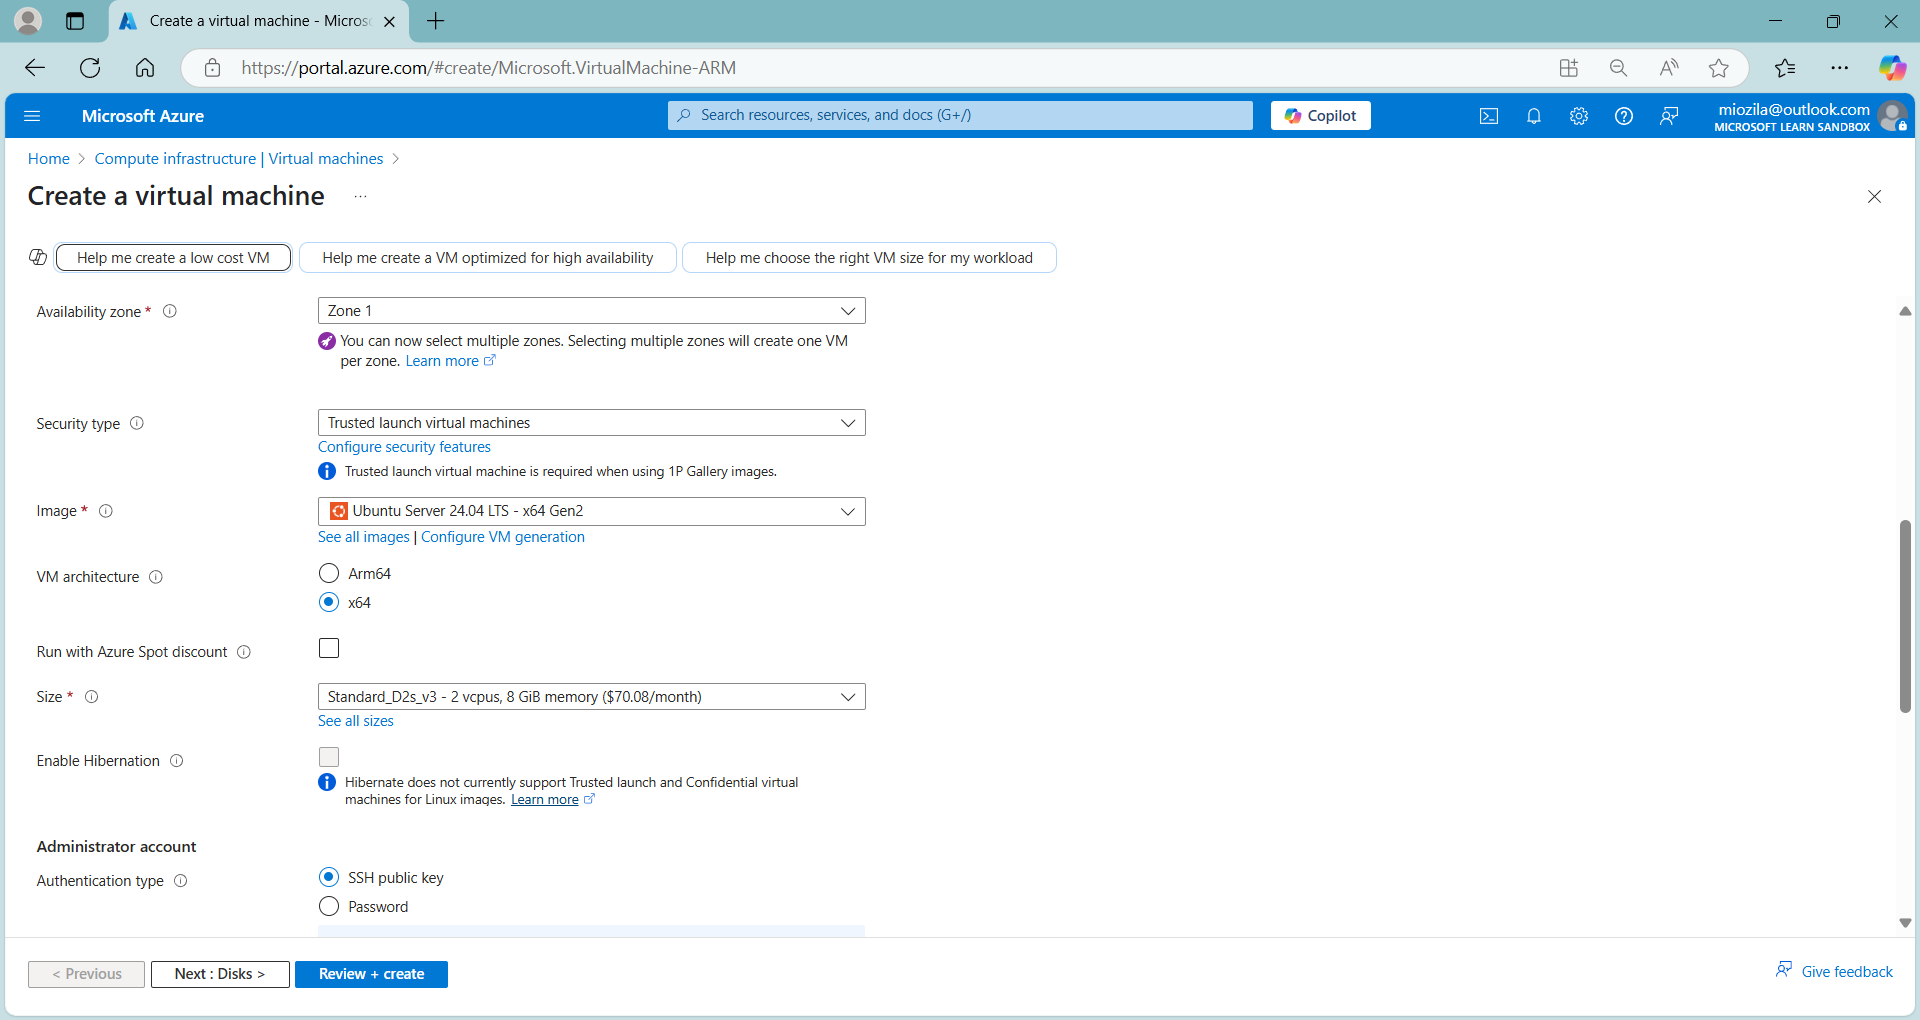
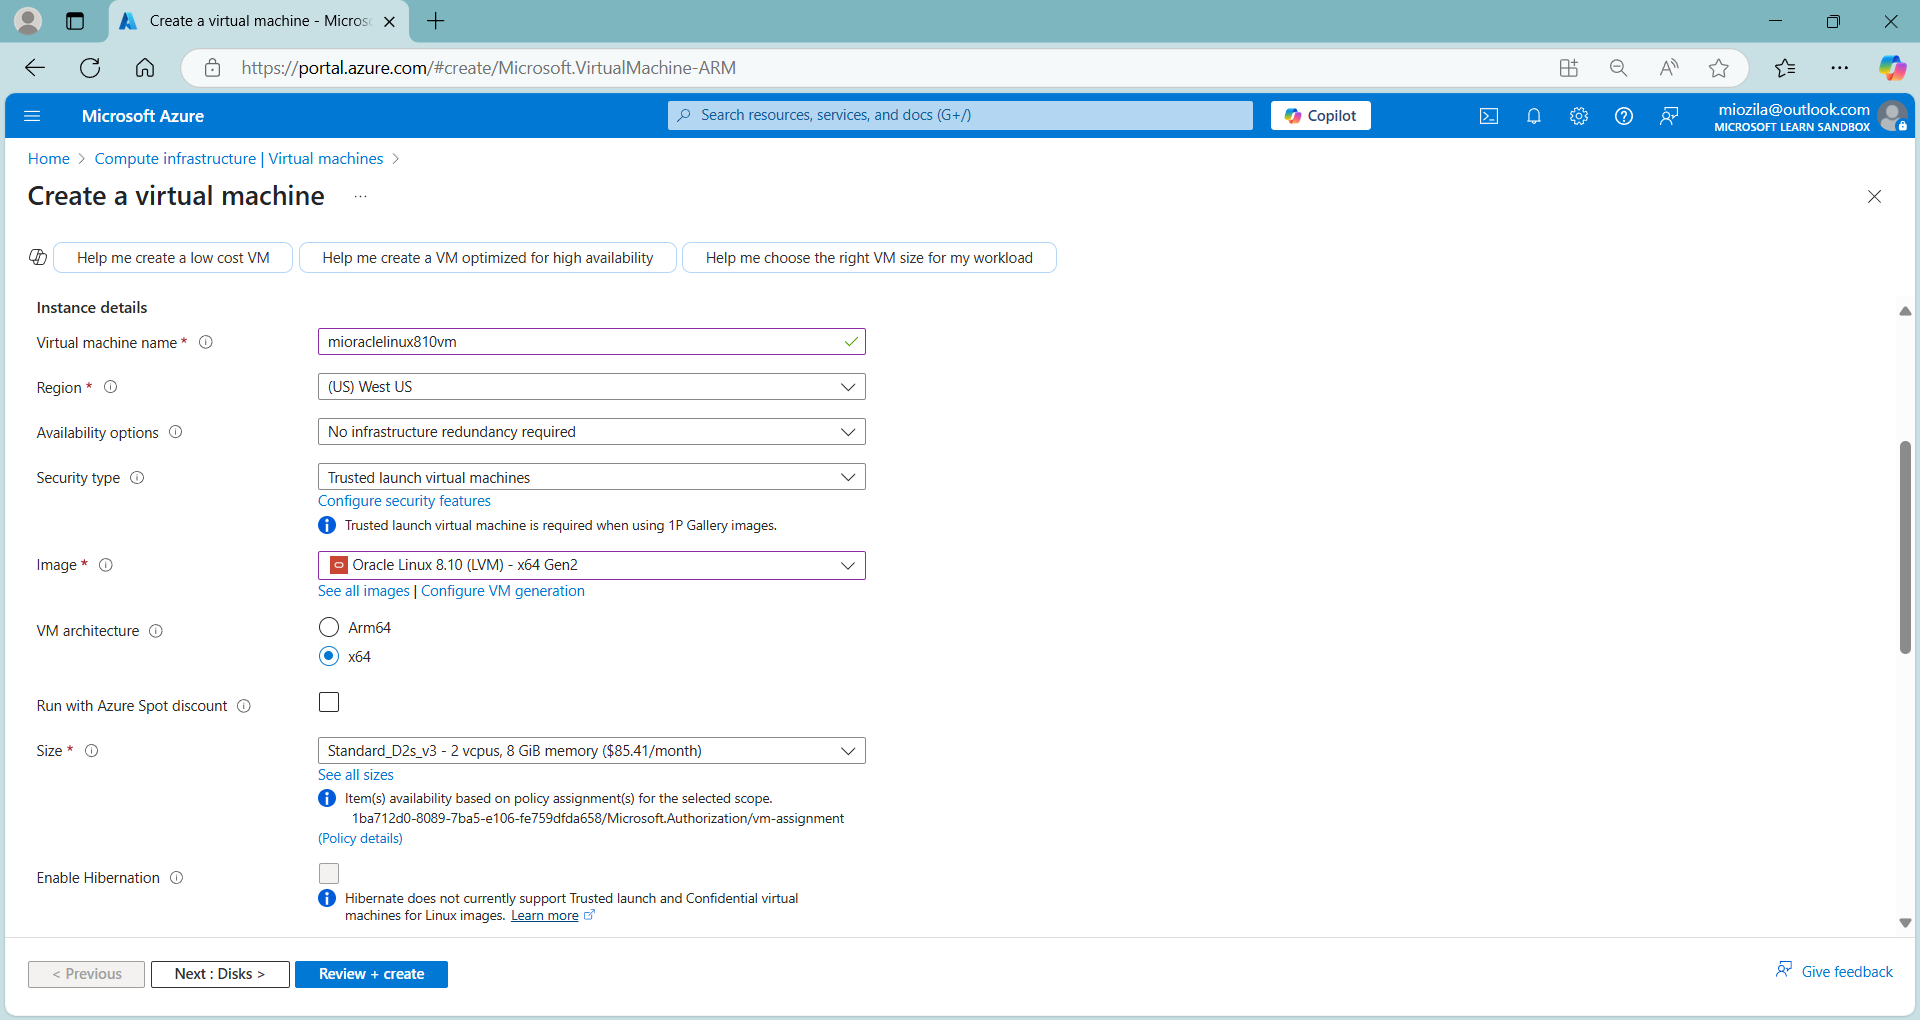
update changes md & png

diff --git a/README.md b/README.md
@@ -1,2 +1,19 @@
 # oraclecomput
 oraclecomput : #oracle_linux #compute #virtual_machine
+
+## Objective
+Create a linux virtual machine in Azure
+
+## Oracle Linux 8.10 (LVM) Virtual Machine Compute
+
+![Screenshot_oraclecomput001](./oraclecomput001.png)
+
+![Screenshot_oraclecomput002](./oraclecomput002.png)
+
+![Screenshot_oraclecomput003](./oraclecomput003.png)
+
+![Screenshot_oraclecomput004](./oraclecomput004.png)
+
+![Screenshot_oraclecomput005](./oraclecomput005.png)
+
+![Screenshot_oraclecomput006](./oraclecomput006.png)
